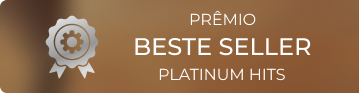
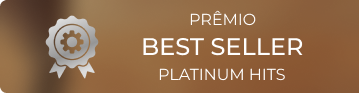
fix: classes padding global e container aplicadas e asset com bestie alterado

Changed region(s): [[0.3677, 0.4086, 0.8886, 0.6022]]

diff --git a/styles.css b/styles.css
@@ -551,6 +551,8 @@ section {
     align-items: center;
     height: 600px;
 
+    margin: 100px auto 200px auto;
+
     border-radius: 45px;
 
     .call-to-action__content {
@@ -669,6 +671,8 @@ section {
     justify-content: center;
     align-items: center;
 
+    margin: 200px auto 200px auto;
+
     .game-promotion__content > h2 {
 
         width: max-content;
@@ -705,6 +709,7 @@ section {
                 width: 359px;
                 height: 93px;
                 bottom: 40px;
+                border-radius: 0;
                 right: 0px;
             }
         }
